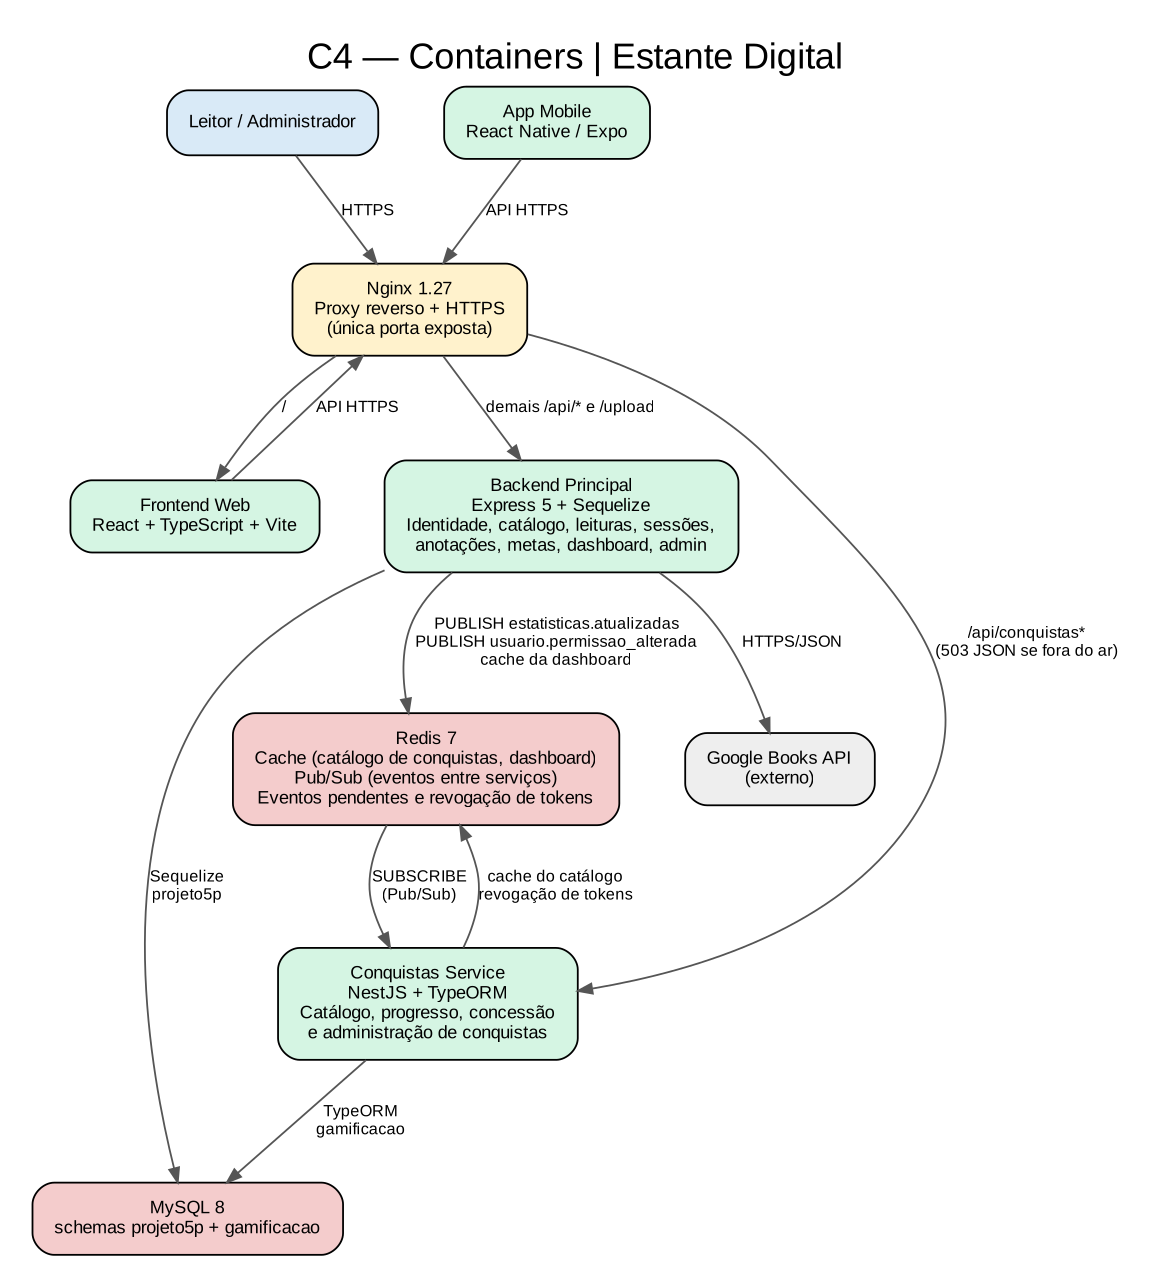
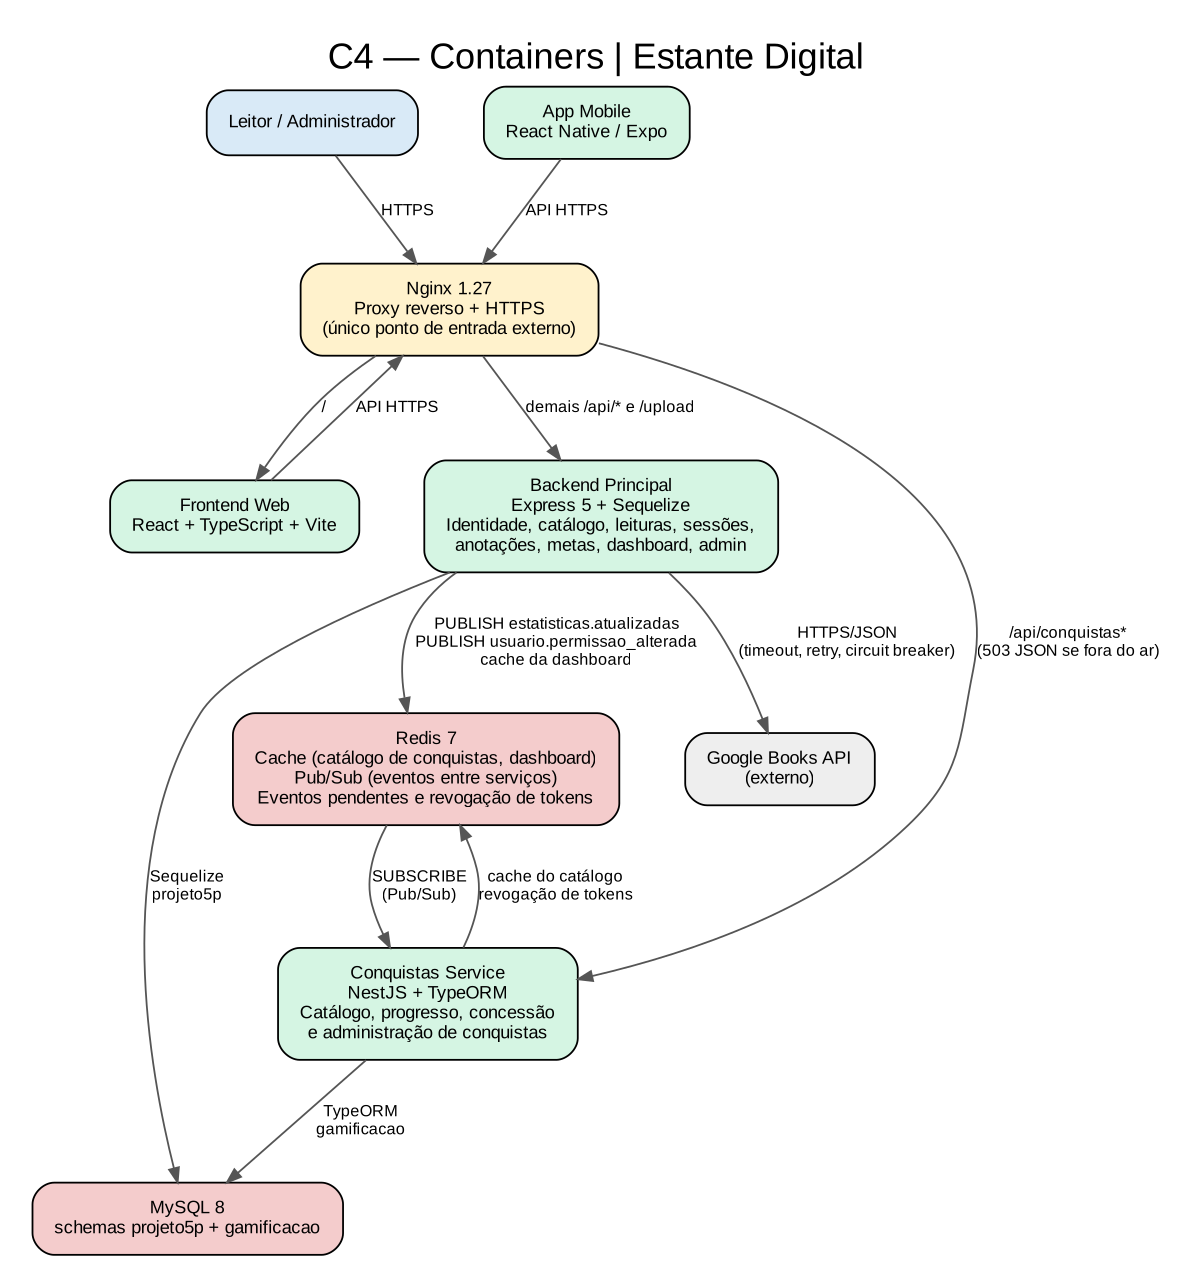
docs: ajustes finais da documentação
Refs: GDL-80

diff --git a/docs/gestao/product-backlog.md b/docs/gestao/product-backlog.md
@@ -1,6 +1,26 @@
 # Product Backlog e Sprints
 
-Fonte: Jira, projeto **GDL** (board 34), consultado em 23/11/2026. Responsáveis: Emanuely Bueno (desenvolvimento) e João Vitor Quinto (documentação de arquitetura e gestão).
+Fonte: Jira, projeto **GDL** (board 34), consultado em 23/11/2026. Product Owner e Scrum Master: Emanuely Bueno; time de desenvolvimento: Emanuely Bueno e João Vitor Quinto (ver [Papéis da equipe](#papéis-da-equipe)).
+
+## Papéis da equipe
+
+Jira GDL-40. A equipe tem duas pessoas, então os papéis do Scrum foram acumulados — o que é comum em times pequenos. A divisão abaixo é a que aconteceu na prática.
+
+| Papel | Quem | Responsabilidades |
+|---|---|---|
+| **Product Owner** | Emanuely Bueno | Criar e manter o Product Backlog no Jira (épicos, histórias, tarefas, bugs); escrever critérios de aceite; priorizar o que entra em cada sprint; aceitar as entregas (mover para Feito após o merge) |
+| **Scrum Master** | Emanuely Bueno | Criar e fechar as sprints com objetivo definido; manter o fluxo do board (A fazer → Fazendo → Em Revisão → Feito); replanejar quando a sprint não fechou (Sprint 6 → Sprint 7); cuidar do processo de branch, PR e release |
+| **Time de desenvolvimento** | Emanuely Bueno e João Vitor Quinto | Emanuely: backend Express, serviço NestJS, eventos Redis, cache, Docker/Nginx, CI/CD, web e mobile. João: documentação de arquitetura (C4, ADRs, DDD, OpenAPI, cenários de qualidade, SLO, observabilidade), estratégia de deploy, runbook e revisão dos PRs |
+
+### Como os papéis aparecem no processo
+- **Planejamento:** a PO escolhe os itens do backlog e o objetivo da sprint no Jira.
+- **Execução:** cada item vira uma branch `feature/GDL-XX-...`; o card vai para Fazendo.
+- **Revisão:** PR para `dev`, CI verde e revisão do outro integrante; o card vai para Em Revisão.
+- **Aceite:** depois do merge, a PO move o card para Feito.
+- **Entrega:** ao fim do ciclo, release versionada (`release/x.y.z` → `main` → tag).
+
+### Limites assumidos
+Com a mesma pessoa como PO, Scrum Master e desenvolvedora, há menos separação entre "quem pede" e "quem faz". A equipe compensou isso com critérios de aceite escritos antes do desenvolvimento nas histórias novas e com a revisão de código feita pelo outro integrante.
 
 ## Épicos
 | Épico | Tema |
@@ -23,21 +43,23 @@ Fonte: Jira, projeto **GDL** (board 34), consultado em 23/11/2026. Responsáveis
 | Sprint 4 — Nest e Cache | 27/10 – 02/11 | Conquistas servidas pelo NestJS (banco próprio, JWT e módulo) com cache-aside e invalidação | GDL-10, 11, 66, 67, 68, 19, 20, 21–25 |
 | Sprint 5 — Eventos | 03/11 – 09/11 | Monólito publica eventos e o serviço consome; serviço no Compose e no Nginx; revogação de admin; CI/CD; modelo de domínio e OpenAPI | GDL-16, 17, 18, 27–30, 39, 40, 41, 57, 58, 60, 70, 71, 73, 74, 79 |
 | Sprint 6 — Migração | 09/11 – 20/11 | Código antigo removido; sistema resiliente com o serviço fora; teste do fluxo; qualidade, SLO, observabilidade | GDL-26, 31, 32, 33, 51, 54, 69, 72, 75, 76, 77 |
-| Sprint 7 — Finalização | 20/11 – 23/11 | Logger, tratamento central de erros, cache da dashboard, apresentação | GDL-34 (feito); GDL-12, GDL-35 e GDL-80 (em revisão); GDL-32 (reaberto); GDL-42 |
+| Sprint 7 — Finalização | 20/11 – 23/11 | Logger, tratamento central de erros, cache da dashboard, apresentação | GDL-34, GDL-12, GDL-35, GDL-80, GDL-32 (implementação) e GDL-42 |
 
-Na Sprint 6 o time não fechou GDL-34, GDL-35, GDL-12 e GDL-42; eles foram levados para a Sprint 7 (replanejamento registrado no Jira). Na revisão final, o time encontrou o GDL-32 marcado como Feito sem implementação e o reabriu — exemplo de inspeção e adaptação.
+Na Sprint 6 o time não fechou GDL-34, GDL-35, GDL-12 e GDL-42; eles foram levados para a Sprint 7 (replanejamento registrado no Jira). Na revisão final, o time encontrou o GDL-32 (Sprint 6) marcado como Feito sem código e implementou a resiliência na Sprint 7 (PR #51) — exemplo de inspeção e adaptação.
+
+## Concluído na Sprint 7
+GDL-34 (logger, PR #47), GDL-35 (tratamento de erros, PR #50), GDL-80 (documentação, PR #49), GDL-12 (cache da dashboard, PR #48), GDL-32 (resiliência do Google Books, PR #51) e GDL-42 (apresentação final).
+
+## Cancelado
+GDL-61 (ConquistaService no Express): fechado como Feito com o título "[Cancelado]", porque foi substituído pela extração da Gamificação para o NestJS.
 
 ## Backlog restante (priorizado)
+Dívida técnica conhecida, fora das sprints:
+
 | Prioridade | Issue | Tipo | Item | Status |
 |---|---|---|---|---|
-| 1 | GDL-35 | Tarefa | Middleware central de tratamento de erros | Em revisão (PR #50) |
-| 2 | GDL-12 | História | Cache da dashboard do usuário | Em revisão (PR #48) |
-| 3 | GDL-32 | História | Resiliência da integração com Google Books | Reaberto: estava como Feito sem código; implementação em PR |
-| 4 | GDL-80 | Tarefa | Documentação final | Em revisão (PR #49) |
-| 5 | GDL-42 | Tarefa | Preparar apresentação final | A fazer |
-| 6 | GDL-36 | Tarefa | Criar DTOs para livros e leituras | Fora das sprints |
-| 7 | GDL-37 | Tarefa | Mover regras de negócio para services | Fora das sprints |
-| — | GDL-61 | Tarefa | ConquistaService no Express | Cancelado (substituído pela extração para o NestJS) |
+| 1 | GDL-36 | Tarefa | Criar DTOs para livros e leituras | Fora das sprints |
+| 2 | GDL-37 | Tarefa | Mover regras de negócio para services | Fora das sprints |
 
 ## Fora das sprints
 - GDL-43 a GDL-50: histórias do MVP (épico GDL-6), entregues antes do Jira; registradas com critérios de aceite para compor o backlog.

diff --git a/docs/gestao/historias-e-criterios.md b/docs/gestao/historias-e-criterios.md
@@ -16,25 +16,25 @@ As histórias ficam no Jira no formato **Como** [persona], **quero** [capacidade
 - Log registra cada publicação; falha ao publicar é registrada e não quebra a requisição.
 
 ## GDL-71 — Consumir evento e conceder conquistas (Sprint 5)
-**Como** leitor, **quero** receber minhas conquistas automaticamente quando atingir os critérios.
+**Como** leitor, **quero** receber minhas conquistas automaticamente quando atingir os critérios, **para** ser reconhecido pelo meu progresso sem depender de um administrador.
 - Serviço assina `estatisticas.atualizadas`, avalia as regras e grava as conquistas novas uma única vez.
 - Guarda as últimas estatísticas do leitor para calcular o progresso no catálogo e invalida o cache dele.
 - Logs mostram a mensagem recebida e as conquistas concedidas.
 
 ## GDL-72 — Notificar conquistas novas no app (Sprint 6)
-**Como** leitor, **quero** ser avisado das conquistas que ganhei, mesmo que sejam concedidas alguns segundos depois da ação.
+**Como** leitor, **quero** ser avisado das conquistas que ganhei, mesmo que sejam concedidas alguns segundos depois da ação, **para** saber na hora que desbloqueei algo novo.
 - Coluna `visualizada` em `usuario_conquistas`.
 - `GET /api/conquistas/novas` retorna as não vistas e as marca como vistas.
 - O app consulta depois das ações e mostra o alerta.
 
 ## GDL-76 — Sistema funciona com o serviço de conquistas fora do ar (Sprint 6)
-**Como** leitor, **quero** continuar usando a biblioteca mesmo se o serviço de conquistas cair.
+**Como** leitor, **quero** continuar usando a biblioteca mesmo se o serviço de conquistas cair, **para** não perder o registro das minhas leituras.
 - Com o serviço parado, salvar progresso funciona normalmente.
 - Falha ao publicar é registrada sem quebrar a requisição.
 - Ao voltar, as conquistas pendentes são processadas.
 
 ## GDL-79 — Revogar acesso de admin rebaixado via evento (Sprint 5)
-**Como** administrador, **quero** que um usuário rebaixado perca o acesso de admin no serviço de conquistas na hora, sem esperar o token expirar.
+**Como** administrador, **quero** que um usuário rebaixado perca o acesso de admin no serviço de conquistas na hora, **para** que ele não continue administrando até o token expirar (até 5 h).
 - Promover/rebaixar publica `usuario.permissao_alterada` com `{ usuarioId, tipo_usuario, alteradoEm }`.
 - O serviço grava `auth:revogado:<id>` com TTL de 5 h e recusa com 401 tokens emitidos antes da mudança.
 - Redis fora: rotas de leitor seguem; rotas de admin respondem 503.

diff --git a/docs/gestao/versionamento.md b/docs/gestao/versionamento.md
@@ -1,13 +1,13 @@
 # Versionamento e releases
 
-O `CHANGELOG.md` segue Keep a Changelog e Versionamento Semântico. Cada versão tem uma tag no Git e uma Release no GitHub com as notas do CHANGELOG (GDL-41); a partir da v1.2.0, a tag também dispara a publicação das imagens (ver [CI/CD](../devops/ci-cd.md)).
+O `CHANGELOG.md` segue Keep a Changelog e Versionamento Semântico. Cada versão tem uma tag no Git e as notas no CHANGELOG (GDL-41); as tags também aparecem como Releases na página do repositório no GitHub. A partir da v1.2.0, a tag também dispara a publicação das imagens (ver [CI/CD](../devops/ci-cd.md)).
 
 | Versão | Data | Conteúdo principal |
 |---|---|---|
 | **1.0.0** | 19/10/2026 | Primeira versão estável: o MVP (histórias GDL-43 a GDL-50) |
 | **1.1.0** | 27/10/2026 | Serviço NestJS iniciado, schema `gamificacao`, critérios estruturados, Redis no Compose, testes e correções |
 | **1.2.0** | 09/11/2026 | JWT e módulo de conquistas no NestJS, cache do catálogo, Compose e Nginx com o serviço, CI/CD, eventos Redis Pub/Sub, revogação de admin, app com conquistas estruturadas |
-| **1.3.0** (próxima) | fim da Sprint 7 | `nome_genero`, remoção das conquistas do Express, `/api/conquistas/novas`, resiliência com o serviço fora, teste do fluxo de eventos, logger estruturado, cache da dashboard, tratamento central de erros |
+| **1.3.0** (próxima) | fim da Sprint 7 | `nome_genero`, remoção das conquistas do Express, `/api/conquistas/novas`, resiliência com o serviço fora, teste do fluxo de eventos, logger estruturado, cache da dashboard, tratamento central de erros, resiliência do Google Books (timeout, retry e circuit breaker) |
 
 ## Fluxo
 `feature/GDL-XX-...` → PR para `dev` → `release/x.y.z` (CHANGELOG) → PR para `main` → tag `vx.y.z`.

diff --git a/docs/README.md b/docs/README.md
@@ -3,7 +3,7 @@
 > Documentação organizada pela rubrica da disciplina. Atualizada em 23/11/2026 (Sprint 7).
 
 ## Índice
-- [Matriz de atendimento à rubrica](RUBRICA.md)
+
 - [Arquitetura](arquitetura/README.md)
 - [ADRs](adr/README.md)
 - [API OpenAPI](api/README.md)
@@ -23,7 +23,7 @@
 | Docker Compose | MySQL, Redis, backend, conquistas-service, frontend e Nginx, com healthchecks |
 | CI/CD | GitHub Actions: build e testes dos três projetos (NestJS com MySQL e Redis reais), build das imagens, publicação no GHCR por tag |
 | Logs e erros | pino nos dois serviços, uma linha por requisição, `X-Request-Id`; tratamento central de erros no Express (GDL-35) e filtro global no NestJS, com resposta `{ erro, statusCode }` |
-| Jira | Projeto GDL, 7 sprints, histórias com critérios de aceite |
+| Jira | Projeto GDL, 6 sprints registradas (Sprint 2 a Sprint 7; o MVP foi feito antes do Jira), histórias com critérios de aceite |
 | Releases | v1.0.0, v1.1.0, v1.2.0; v1.3.0 ao fim da Sprint 7 |
 
 ## Convenção de status
@@ -31,4 +31,3 @@
 - **Parcial:** existe parte funcional, mas falta algo para o requisito completo.
 - **Proposto:** decisão ou meta sem implementação ou medição.
 
-Atualize o documento correspondente no mesmo Pull Request que alterar arquitetura, API, infraestrutura ou processo.

diff --git a/docs/diagramas/c4-containers.md b/docs/diagramas/c4-containers.md
@@ -8,7 +8,7 @@ flowchart TB
     mobile["<b>App Mobile</b><br/>React Native / Expo"]
 
     subgraph compose["Docker Compose — rede interna"]
-        nginx["<b>Nginx 1.27</b><br/>Proxy reverso + HTTPS<br/>(única porta exposta)"]
+        nginx["<b>Nginx 1.27</b><br/>Proxy reverso + HTTPS<br/>(único ponto de entrada externo)"]
         web["<b>Frontend Web</b><br/>React + TypeScript + Vite"]
         express["<b>Backend Principal</b><br/>Express 5 + Sequelize<br/>Identidade, catálogo, leituras, sessões,<br/>anotações, metas, dashboard, admin"]
         nest["<b>Conquistas Service</b><br/>NestJS + TypeORM<br/>Catálogo, progresso, concessão<br/>e administração de conquistas"]
@@ -28,7 +28,7 @@ flowchart TB
     express -- "PUBLISH estatisticas.atualizadas<br/>PUBLISH usuario.permissao_alterada<br/>cache da dashboard" --> redis
     redis -- "SUBSCRIBE (Pub/Sub)" --> nest
     nest -- "cache do catálogo<br/>revogação de tokens" --> redis
-    express -- "HTTPS/JSON" --> google
+    express -- "HTTPS/JSON<br/>(timeout, retry, circuit breaker)" --> google
 
     classDef pessoa fill:#d9eaf7,stroke:#4a789e,color:#000
     classDef app fill:#d5f5e3,stroke:#23865b,color:#000

diff --git a/docs/devops/ci-cd.md b/docs/devops/ci-cd.md
@@ -3,7 +3,7 @@
 Workflow: [`.github/workflows/ci.yml`](../../.github/workflows/ci.yml) — Jira GDL-16.
 
 ## Quando roda
-- Pull request para `dev` ou `main`: o resultado aparece no PR. Cada PR é revisado pelo outro integrante; até o PR #47 a revisão foi feita fora do GitHub (conversa e testes locais), e a partir da Sprint 7 a aprovação passa a ser registrada pelo botão **Review** do GitHub.
+- Pull request para `dev` ou `main`: o resultado do CI aparece no PR (ex.: no #50 o CI acusou 2 testes falhando e a correção entrou antes do merge). A revisão de código foi feita pelo outro integrante, na maior parte fora do GitHub (conversa e testes locais); o GitHub registra revisão só no PR #47 (pedido de mudanças, corrigido antes do merge). Registrar a aprovação pelo botão **Review** fica como melhoria do processo.
 - Push em `dev` ou `main`.
 - Tag `v*` (ex.: `v1.2.0`) — além dos testes, publica as imagens.
 - Manualmente (`workflow_dispatch`).

diff --git a/docs/devops/fitness-functions.md b/docs/devops/fitness-functions.md
@@ -11,6 +11,8 @@ Verificações repetíveis que impedem regressões arquiteturais. Todas as marca
 | Fluxo ponta a ponta por eventos | `fluxo-eventos.e2e-spec.ts` com Redis e MySQL reais | No CI |
 | Idempotência e ordem dos eventos | `eventos.banco-spec.ts` | No CI |
 | Revogação de token | `jwt-auth.guard.spec.ts`, `auth.e2e-spec.ts` | No CI |
+| Resiliência do Google Books (timeout, retry, circuit breaker, fallback) | `googleBooksService.test.ts` | No CI |
+| Tratamento central de erros (formato, 4xx/5xx, sem vazar detalhe interno) | `tratarErros.test.ts` | No CI |
 | Compose válido e imagens constroem | `docker compose config` + `docker compose build` | No CI |
 | Mensagem de commit no padrão | commitlint (Husky) | Local |
 | Contrato OpenAPI válido | `npx @redocly/cli lint docs/api/openapi.yaml` | Manual |

diff --git a/docs/gestao/analise-cynefin.md b/docs/gestao/analise-cynefin.md
@@ -25,7 +25,7 @@ Há partes em outros domínios, mas elas não representam o projeto inteiro:
 
 ## Abordagem: **adaptativa (Scrum)** com restrições preditivas
 - Sprints curtas (cerca de uma semana) com objetivo de sprint no Jira, backlog priorizado e replanejamento quando a sprint não fecha.
-- Fluxo A fazer → Fazendo → Em revisão → Feito; toda mudança passa por PR revisado.
+- Fluxo A fazer → Fazendo → Em revisão → Feito; toda mudança passa por PR com CI.
 - Incremento entregue por release versionada (1.0.0, 1.1.0, 1.2.0).
 - Restrições fixas da disciplina (prazo final e rubrica) funcionam como marcos preditivos; o escopo dentro delas é adaptado a cada sprint.
 

diff --git a/docs/adr/README.md b/docs/adr/README.md
@@ -8,4 +8,3 @@
 | [ADR-004](ADR-004-eventos-entre-servicos.md) | Eventos entre Acompanhamento e Gamificação | Implementada (revisada: evento único com snapshot) | GDL-24 |
 | [ADR-005](ADR-005-criterios-estruturados.md) | Critérios estruturados de conquistas | Implementada | GDL-25 |
 
-Atualize status, data e consequências no mesmo PR que mudar a implementação.

diff --git a/docs/diagramas/README.md b/docs/diagramas/README.md
@@ -12,4 +12,4 @@ Cada diagrama existe em dois formatos:
 | Context Map | [context-map.md](context-map.md) | [png](context-map.png) |
 | Modelo de domínio da Gamificação | [modelo-dominio-gamificacao.md](modelo-dominio-gamificacao.md) | [png](modelo-dominio-gamificacao.png) |
 
-C4 Contexto e Containers são os diagramas exigidos pela rubrica.
+

diff --git a/README.md b/README.md
@@ -1,4 +1,8 @@
 # Biblioteca Docker - Guia Rapido de Setup
+
+>  **Documentação do projeto:** [docs/README.md](docs/README.md) — arquitetura (C4, DDD, ADRs), API (OpenAPI), operação, CI/CD e gestão.
+>
+
 CI/CD
 Este README centraliza o passo a passo para rodar o projeto em ambiente de desenvolvimento com Docker.
 
